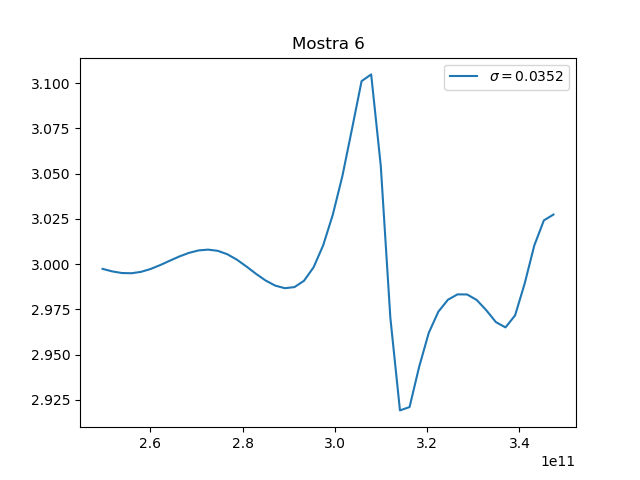
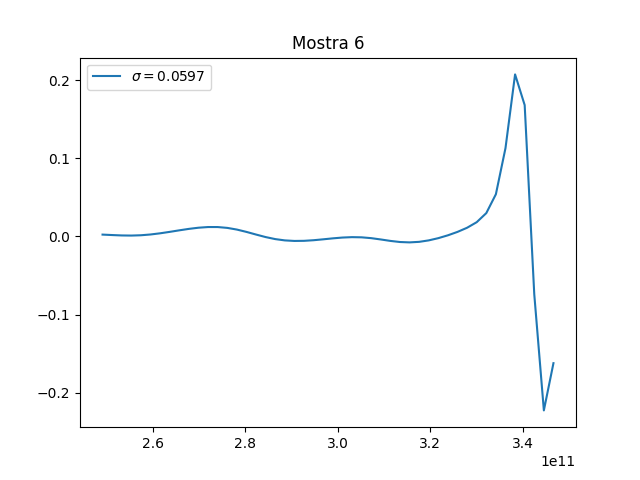
res_lims_V5

diff --git a/PP_calibration/main.py b/PP_calibration/main.py
@@ -1,0 +1,27 @@
+from TDSA import *
+
+
+t_ref, E_ref = read_1file('ref1.txt')
+t_sam, E_sam = read_1file('PP1.txt')
+t_ref *= 1e-12
+t_sam *= 1e-12
+enlargement = 9 * E_ref.size
+delta_t_ref = mean(diff(t_ref))
+E_ref = zero_padding(E_ref, 0, enlargement)
+t_ref = concatenate((t_ref, t_ref[-1] * ones(enlargement) + delta_t_ref * arange(1, enlargement + 1)))
+E_sam = zero_padding(E_sam, 0, enlargement)
+t_sam = concatenate((t_sam, t_sam[-1] * ones(enlargement) + delta_t_ref * arange(1, enlargement + 1)))
+f_ref, E_ref_w = fourier_analysis(t_ref, E_ref)
+n, alpha, n_avg = jepsen_index(t_ref, E_ref, t_sam, E_sam, 1.92e-3)  # 1.94 mm
+
+# plot(f_ref, abs(alpha)*1e-2)
+
+f_PP, alpha_PP = read_1file('alpha_PP.csv')
+f_PP *= 1e12
+
+plot(f_PP, 0.6*(alpha_PP-1))
+wh = open('alpha_PP_mod.csv', 'w')
+for i in range(f_PP.size):
+    wh.write(str(f_PP[i]*1e-12) + ',' + str(0.6*(alpha_PP[i]-1)) + '\n')
+
+show()
